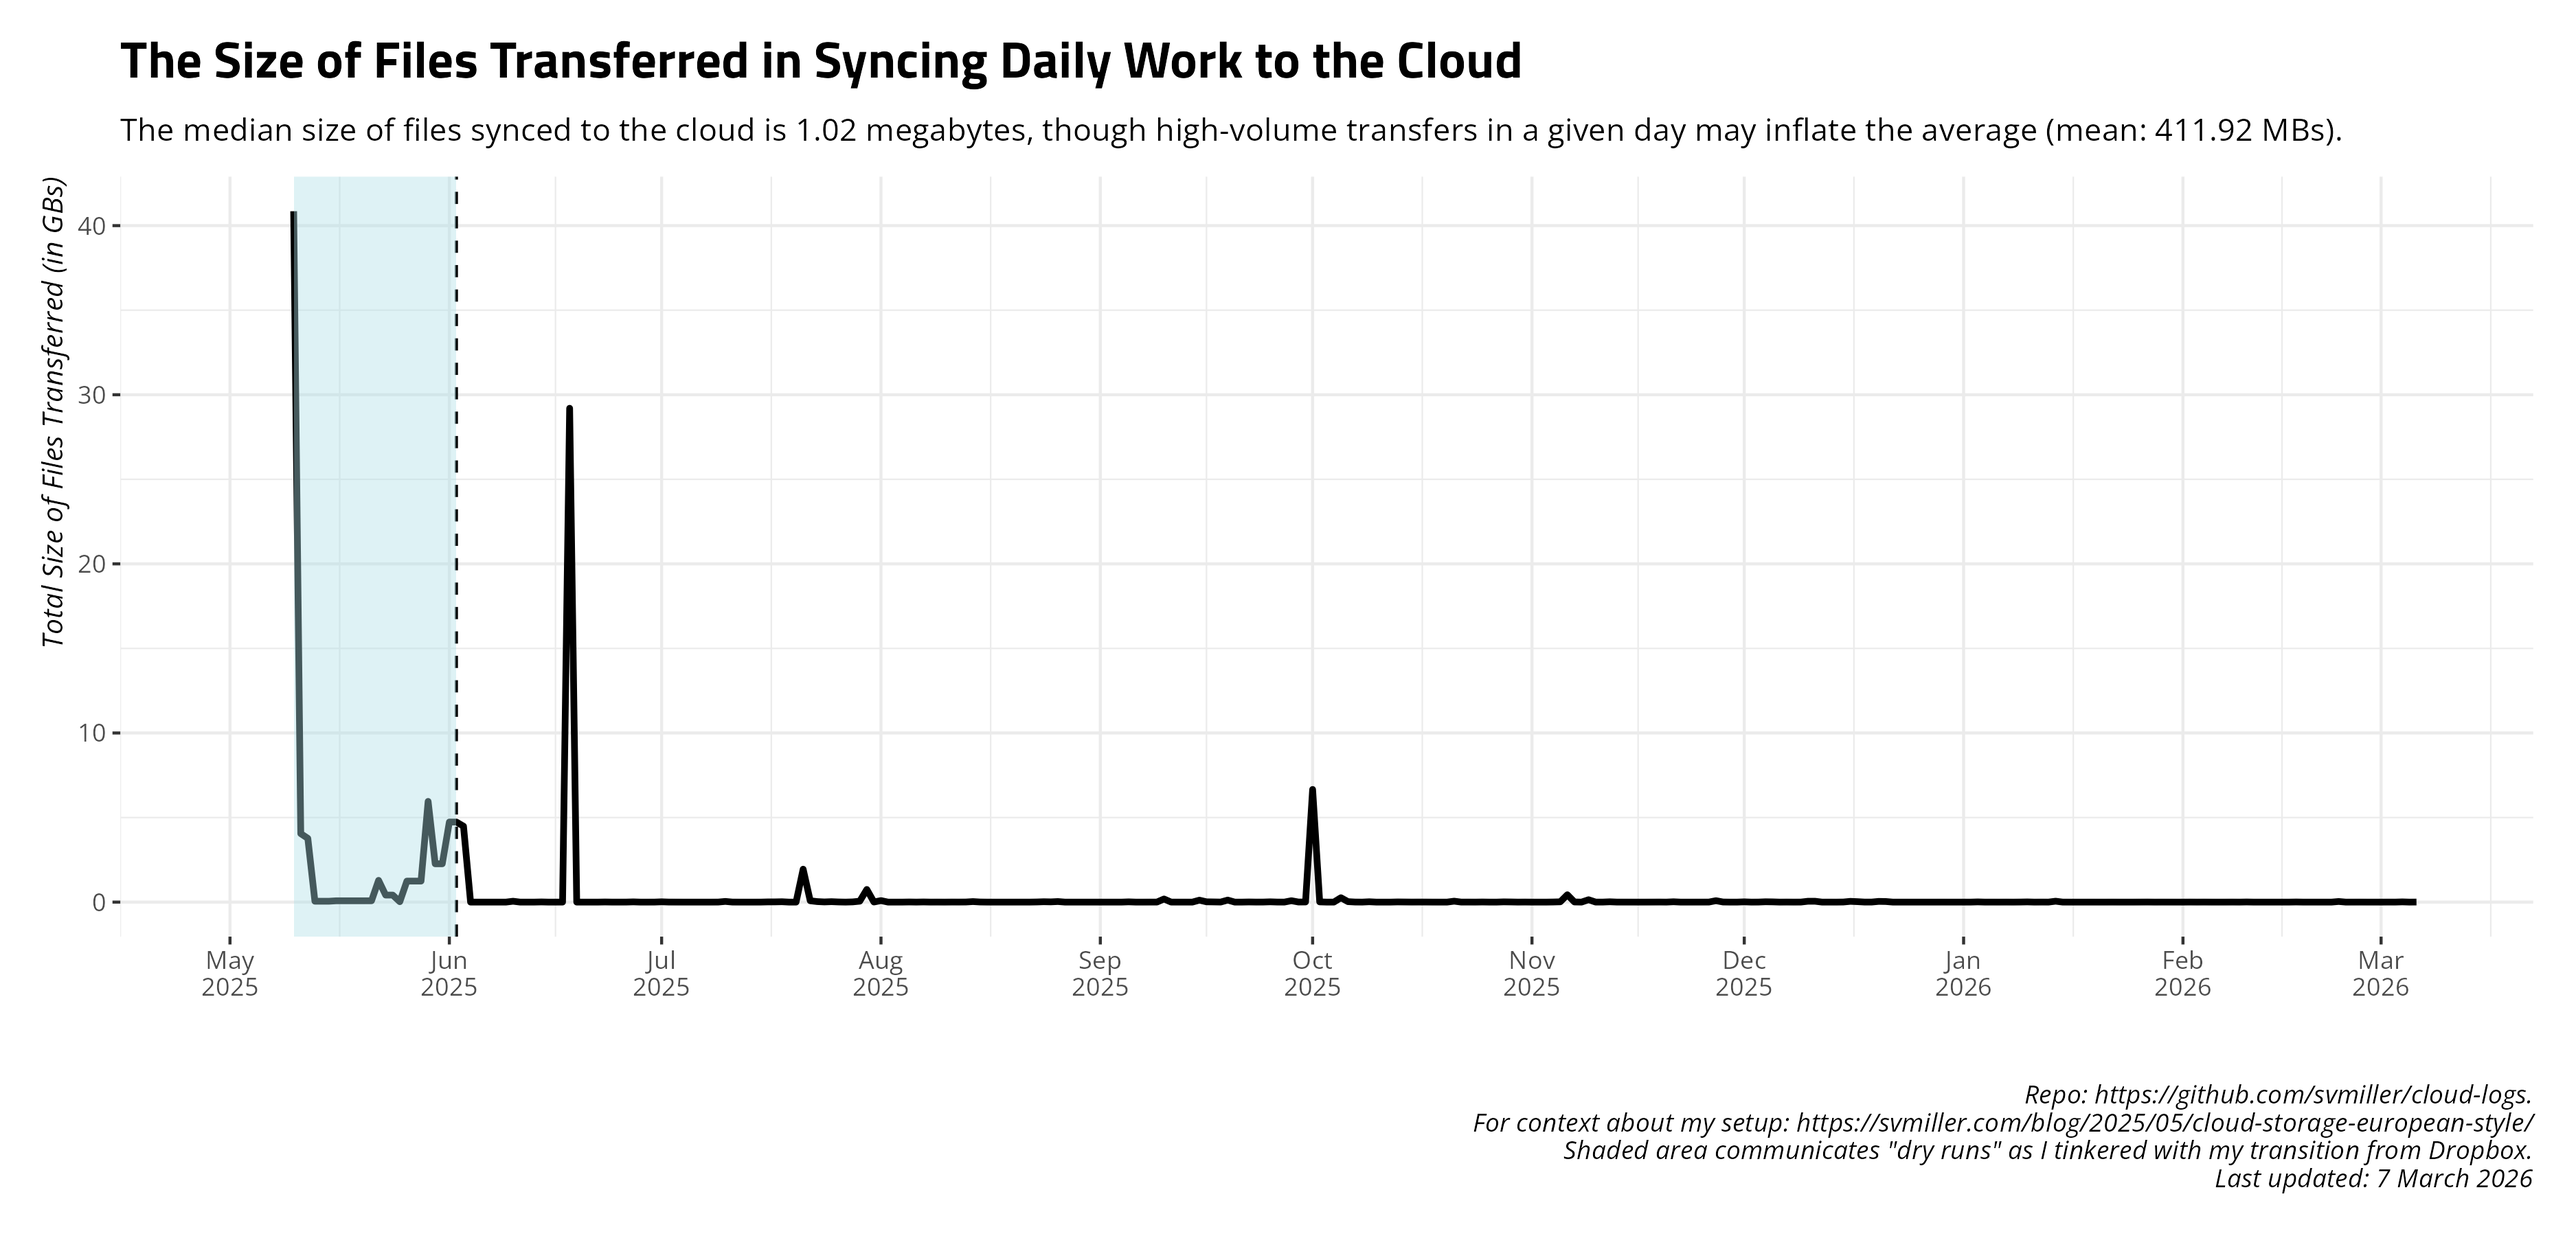
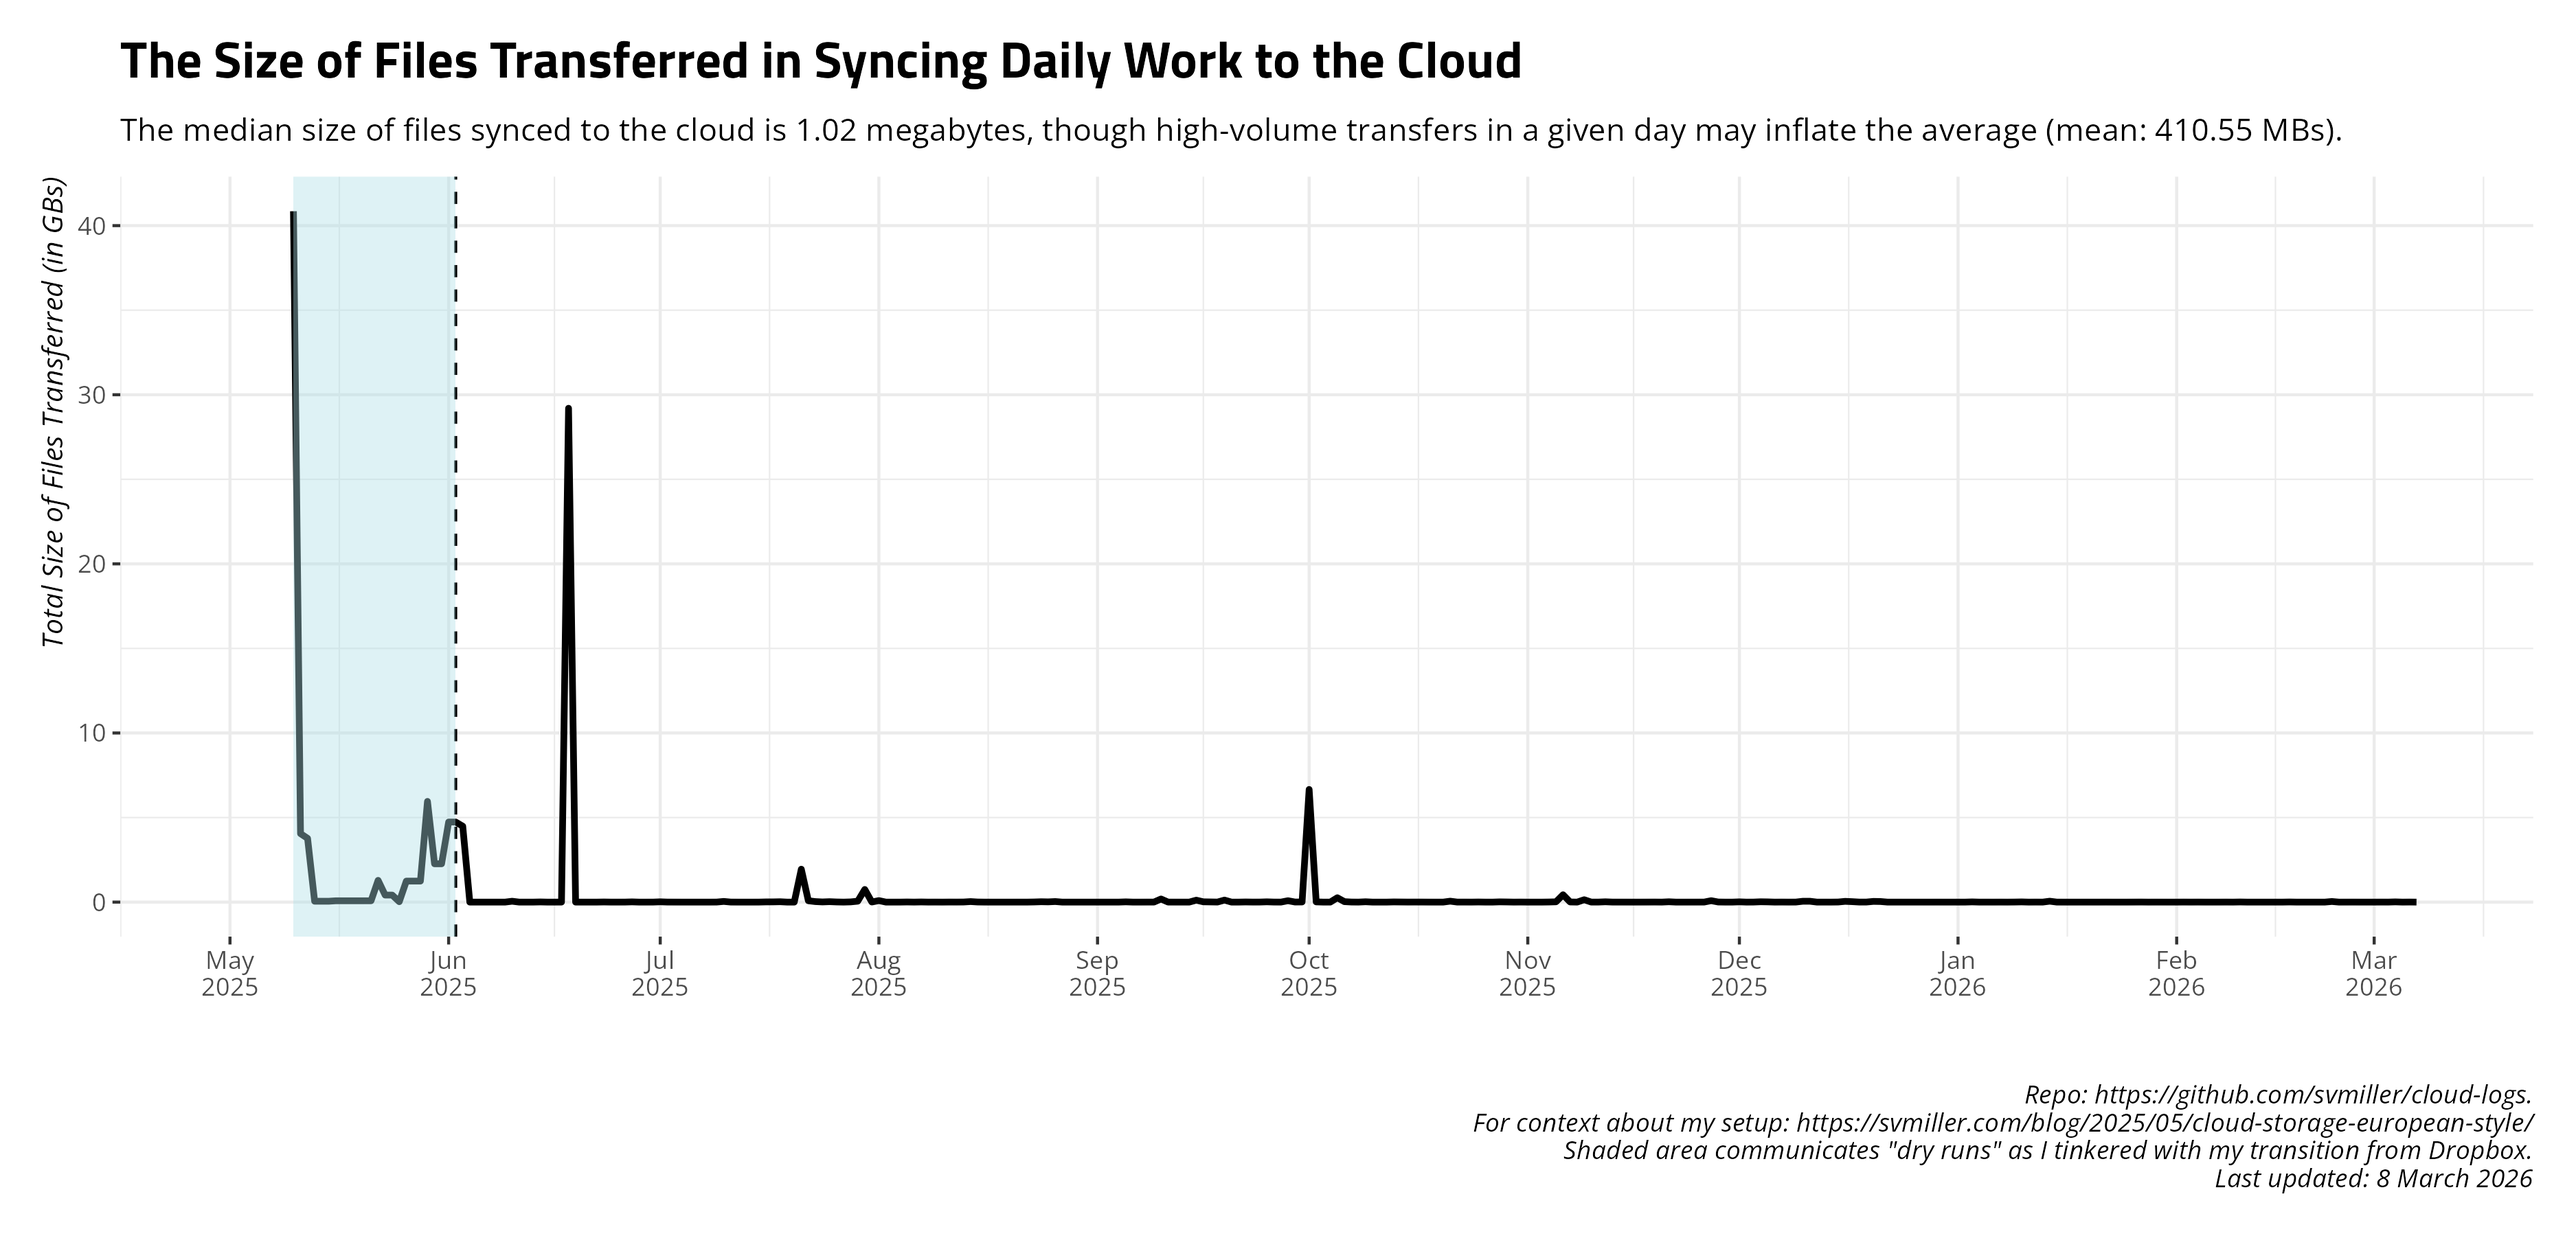
Date: 2026-03-08 09:00:24. Hi mom!

diff --git a/README.md b/README.md
@@ -27,17 +27,17 @@ and uploads to Github.
     #> # A tibble: 14 × 4
     #>    date       ftransfer stransfer   elapsed
     #>    <date>         <dbl> <chr>       <chr>  
-    #>  1 2026-02-21         0 <NA>        4m21.1s
-    #>  2 2026-02-22         1 5.451 KiB   4m31.2s
-    #>  3 2026-02-23        36 36.310 MiB  4m27.7s
-    #>  4 2026-02-24        10 102.766 KiB 5m52.5s
-    #>  5 2026-02-25        26 597.885 KiB 6m31.5s
-    #>  6 2026-02-26        52 1.423 MiB   6m32.0s
-    #>  7 2026-02-27         1 57.085 KiB  6m56.7s
-    #>  8 2026-02-28         0 <NA>        5m11.6s
-    #>  9 2026-03-01         1 54.132 KiB  5m10.4s
-    #> 10 2026-03-02        39 1.947 MiB   4m27.2s
-    #> 11 2026-03-03        68 1.023 MiB   5m0.6s 
-    #> 12 2026-03-04        43 13.051 MiB  5m1.4s 
-    #> 13 2026-03-05        34 104.038 KiB 5m33.8s
-    #> 14 2026-03-06        71 3.873 MiB   5m24.4s
+    #>  1 2026-02-22         1 5.451 KiB   4m31.2s
+    #>  2 2026-02-23        36 36.310 MiB  4m27.7s
+    #>  3 2026-02-24        10 102.766 KiB 5m52.5s
+    #>  4 2026-02-25        26 597.885 KiB 6m31.5s
+    #>  5 2026-02-26        52 1.423 MiB   6m32.0s
+    #>  6 2026-02-27         1 57.085 KiB  6m56.7s
+    #>  7 2026-02-28         0 <NA>        5m11.6s
+    #>  8 2026-03-01         1 54.132 KiB  5m10.4s
+    #>  9 2026-03-02        39 1.947 MiB   4m27.2s
+    #> 10 2026-03-03        68 1.023 MiB   5m0.6s 
+    #> 11 2026-03-04        43 13.051 MiB  5m1.4s 
+    #> 12 2026-03-05        34 104.038 KiB 5m33.8s
+    #> 13 2026-03-06        71 3.873 MiB   5m24.4s
+    #> 14 2026-03-07         0 <NA>        5m14.2s
